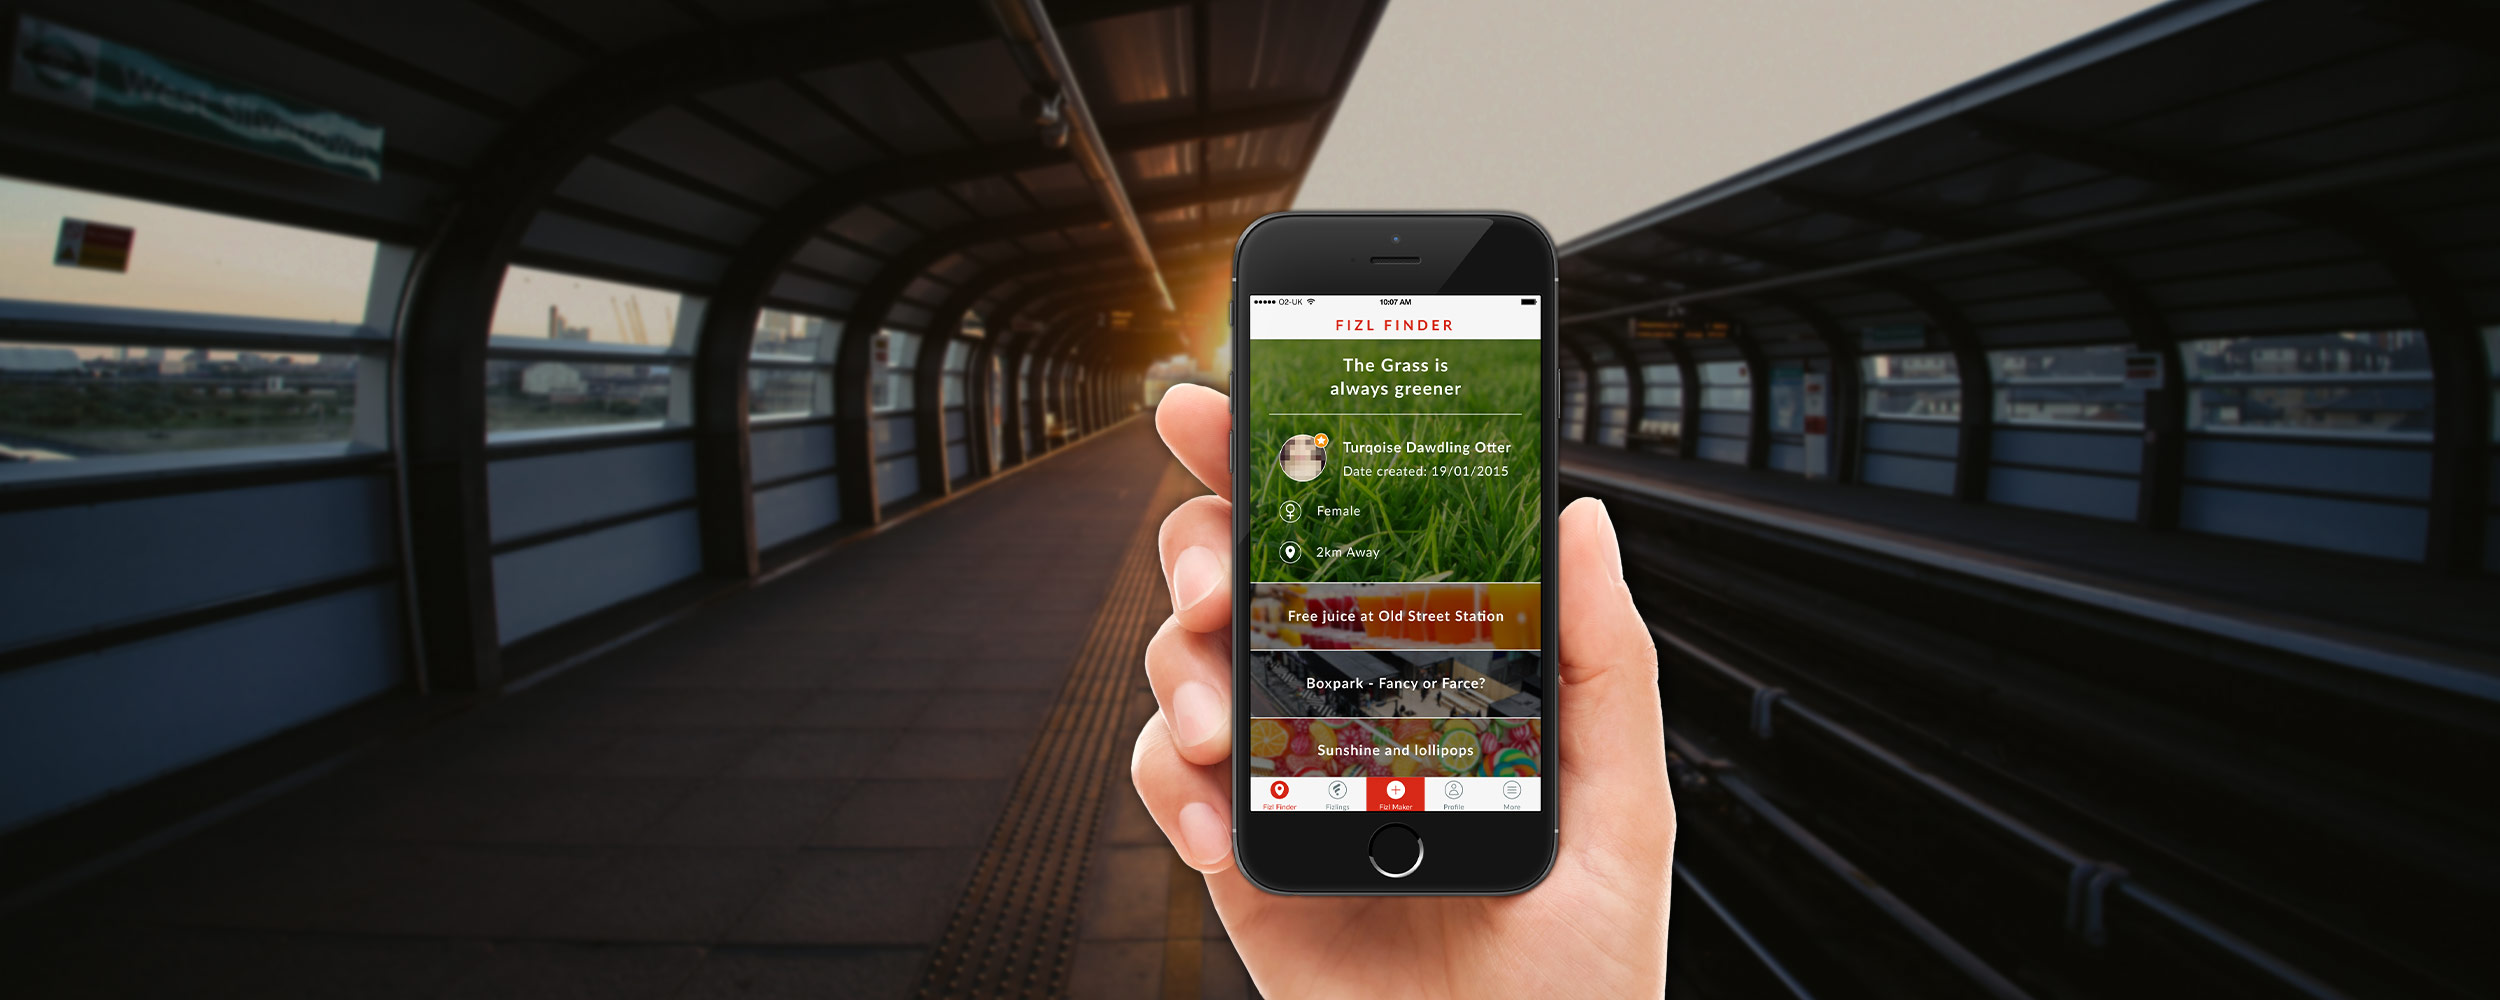
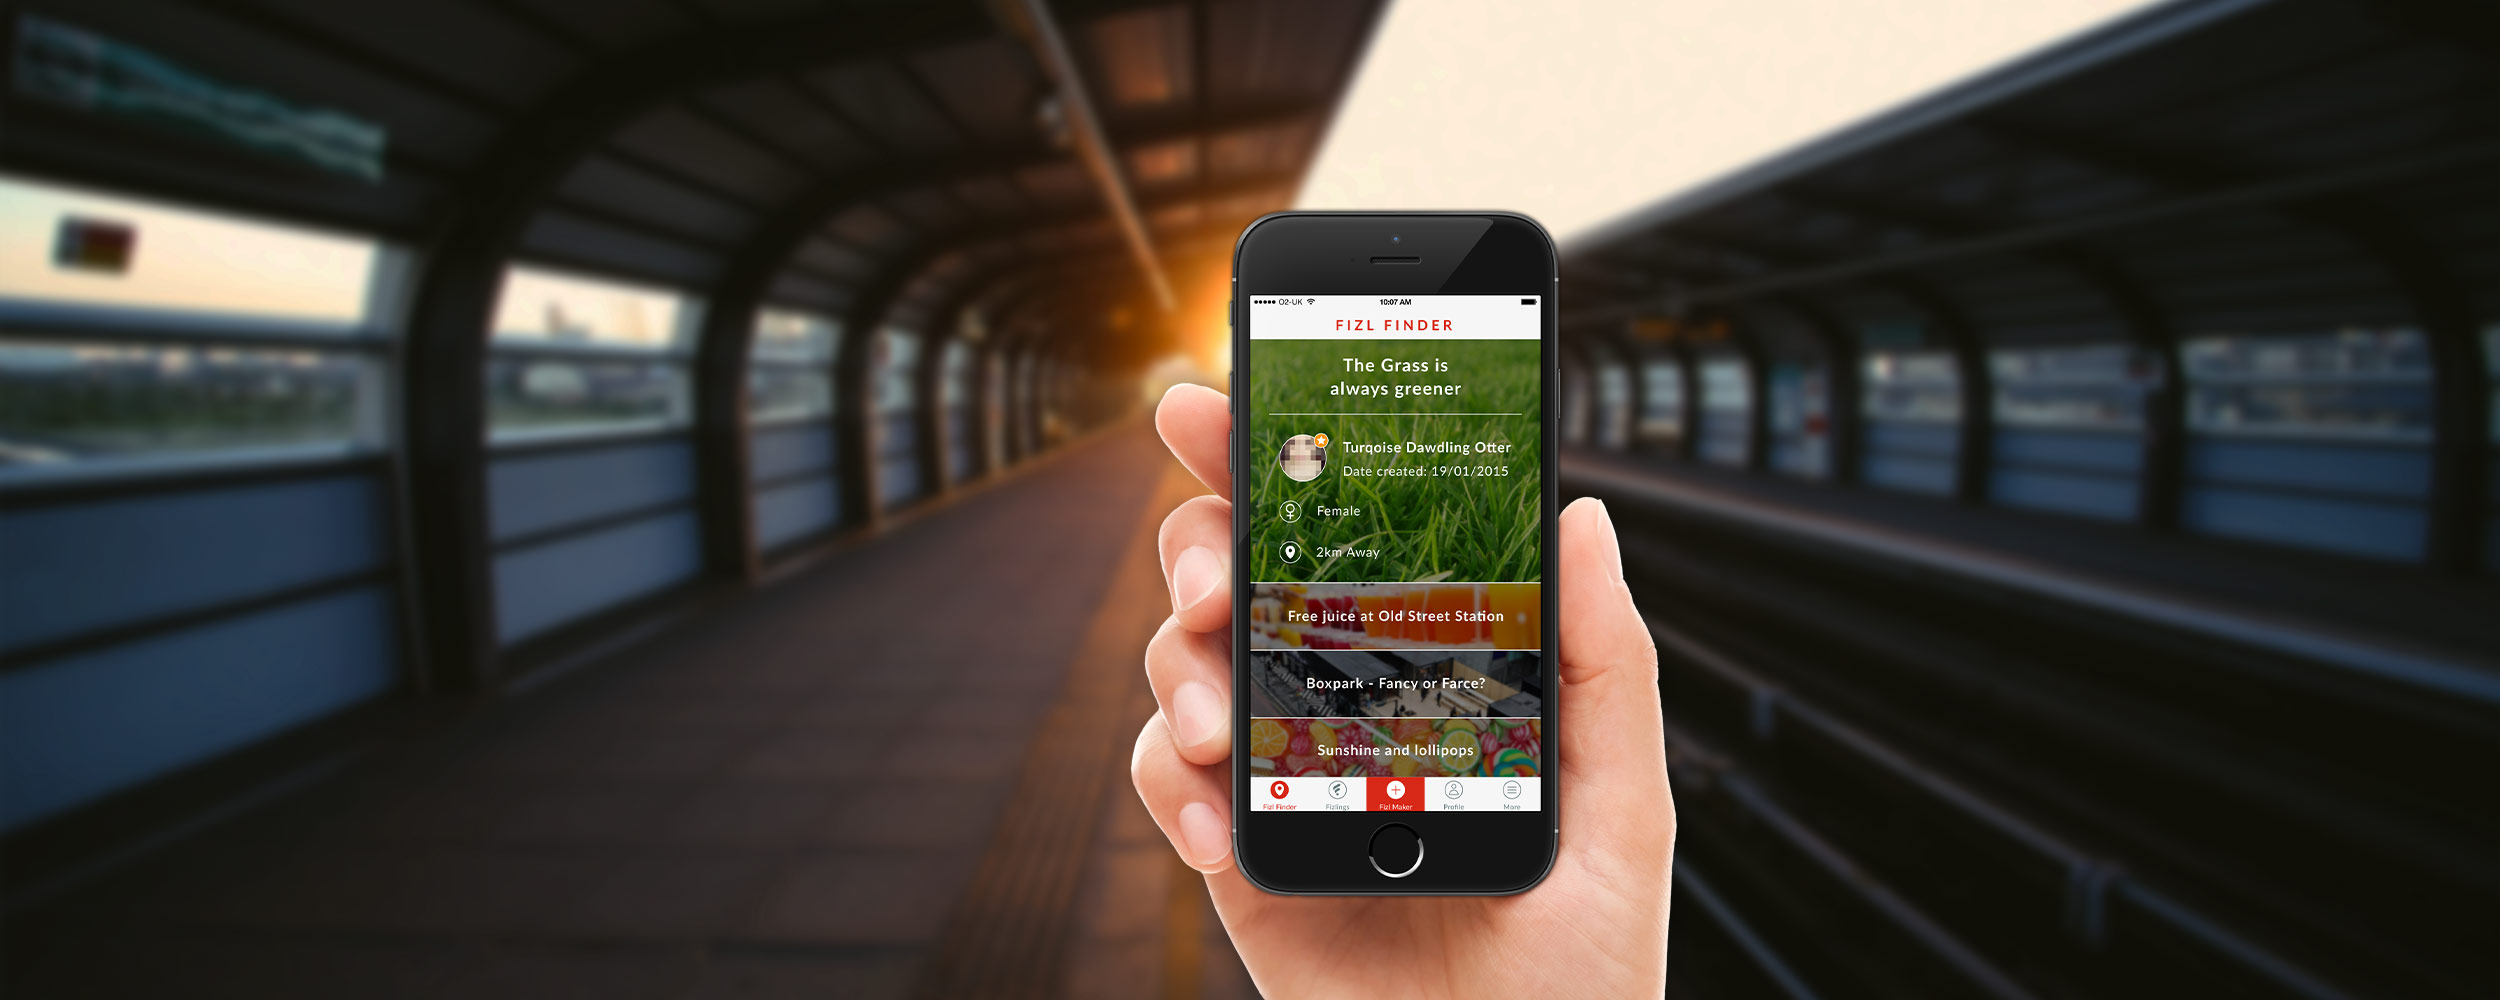
-

diff --git a/css/main.css b/css/main.css
@@ -202,7 +202,7 @@ body {
 }
 .feature-scroll-3 {
     min-height: 900px;
-    background: url(/img/banner3.jpg) no-repeat 48% 50% fixed;
+    background: url(/img/banner-6.jpg) no-repeat 48% 50% fixed;
     -webkit-background-size: cover;
     -moz-background-size: cover;
     -o-background-size: cover;
